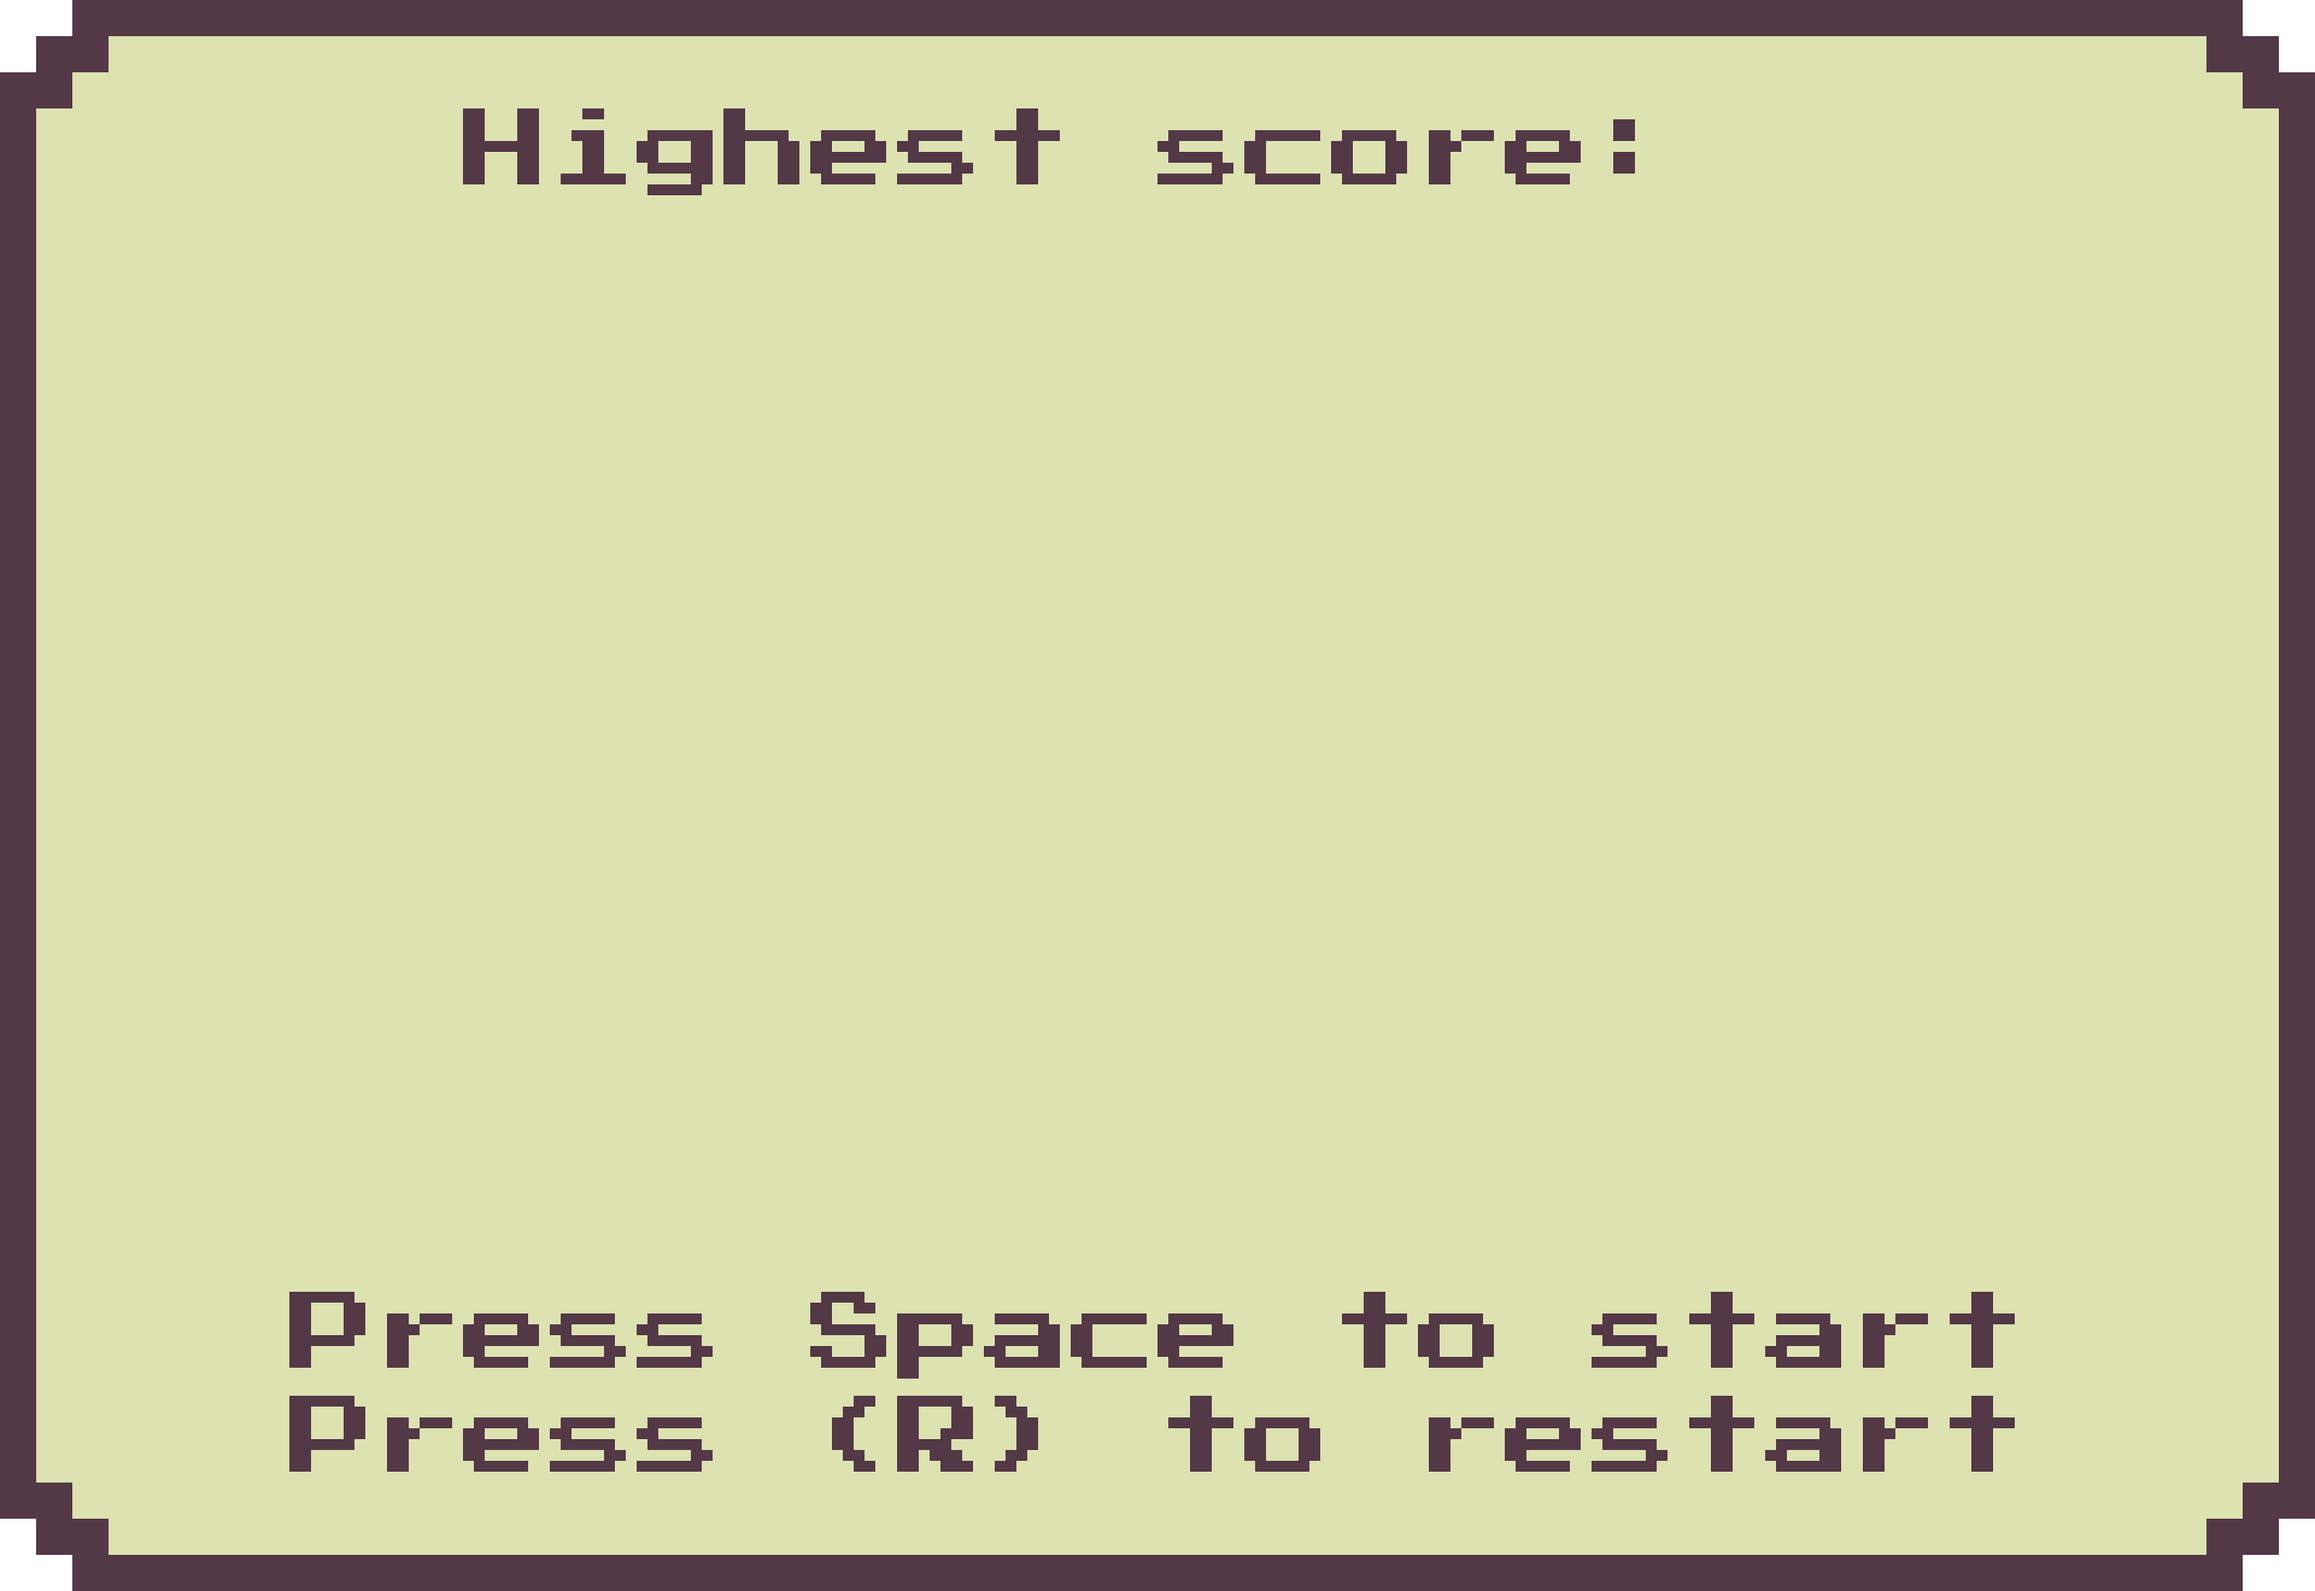
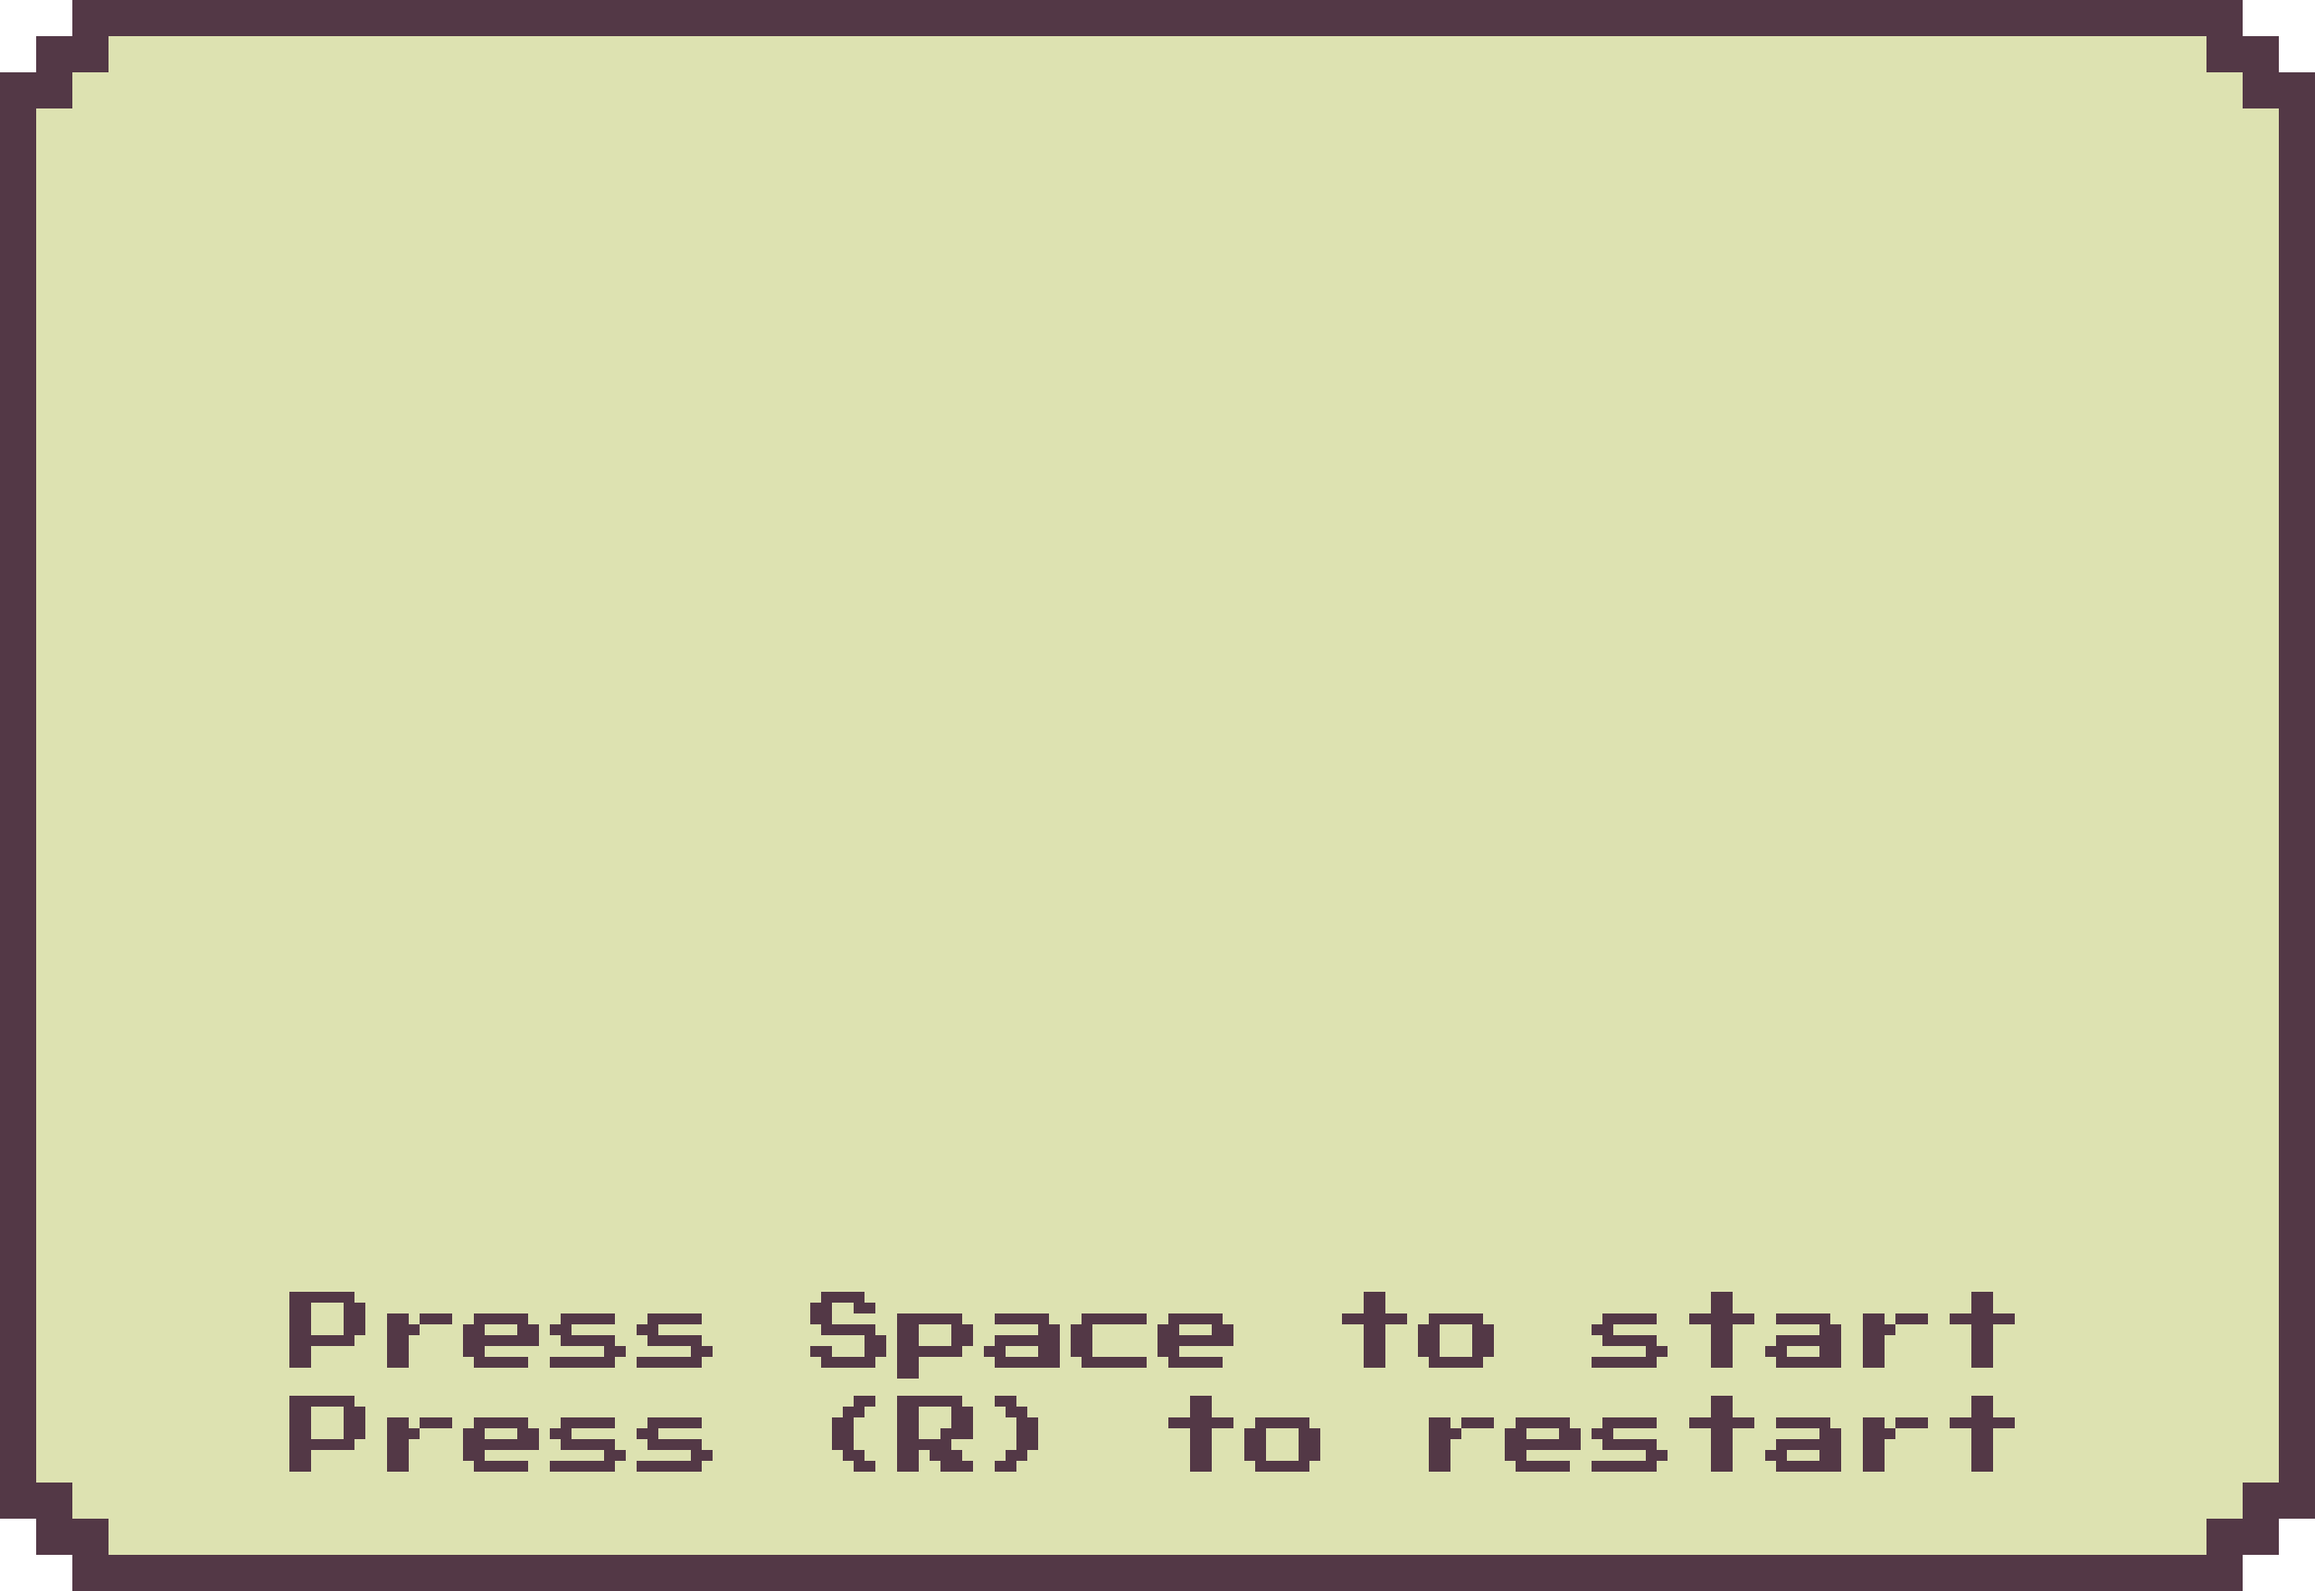
Done

Changed region(s): [[0.1875, 0.0625, 0.4688, 0.125], [0.5, 0.0625, 0.7188, 0.125]]

diff --git a/js/src/game.js b/js/src/game.js
@@ -57,9 +57,11 @@ class Game {
     }
 
     startScreen() {
+        const highestText = `Highest score: ${this.score.highestPoints}`
+
         this.background.draw()
         this.ground.draw()
-
+        
         image(
             this.starterImage,
             (width - 640) / 2,
@@ -68,7 +70,7 @@ class Game {
             440
         )
 
-        text(this.score.highestPoints, 568, 135)
+        text(highestText, (width - textWidth(highestText)) / 2, 135)
 
         image(
             this.playerImage.straight,

diff --git a/js/src/main.js b/js/src/main.js
@@ -1,6 +1,6 @@
 // Variables
-const gameWidth = 800
-const gameHeight = 600
+let gameWidth = 800
+let gameHeight = 600
 
 const game = new Game()
 
@@ -15,8 +15,9 @@ function setup() {
     createCanvas(gameWidth, gameHeight)
     fill(83, 56, 70)
     rectMode(CENTER)
-    textSize(24)
     textFont(font)
+    textSize(24)
+
     game.setup()
 }
 

diff --git a/README.md b/README.md
@@ -15,8 +15,6 @@
 ### If time left
 
 - Highest score ✅
-- Difficulty
-- Touch screens
 
 ## To do 1 Nov
 
@@ -33,10 +31,4 @@
 
 ## To do 3 Nov
 
-- Rotation
-- Difficulty
-
-
-## To do 4 Nov
-
-- Touch screens
+- Rotation ✅
